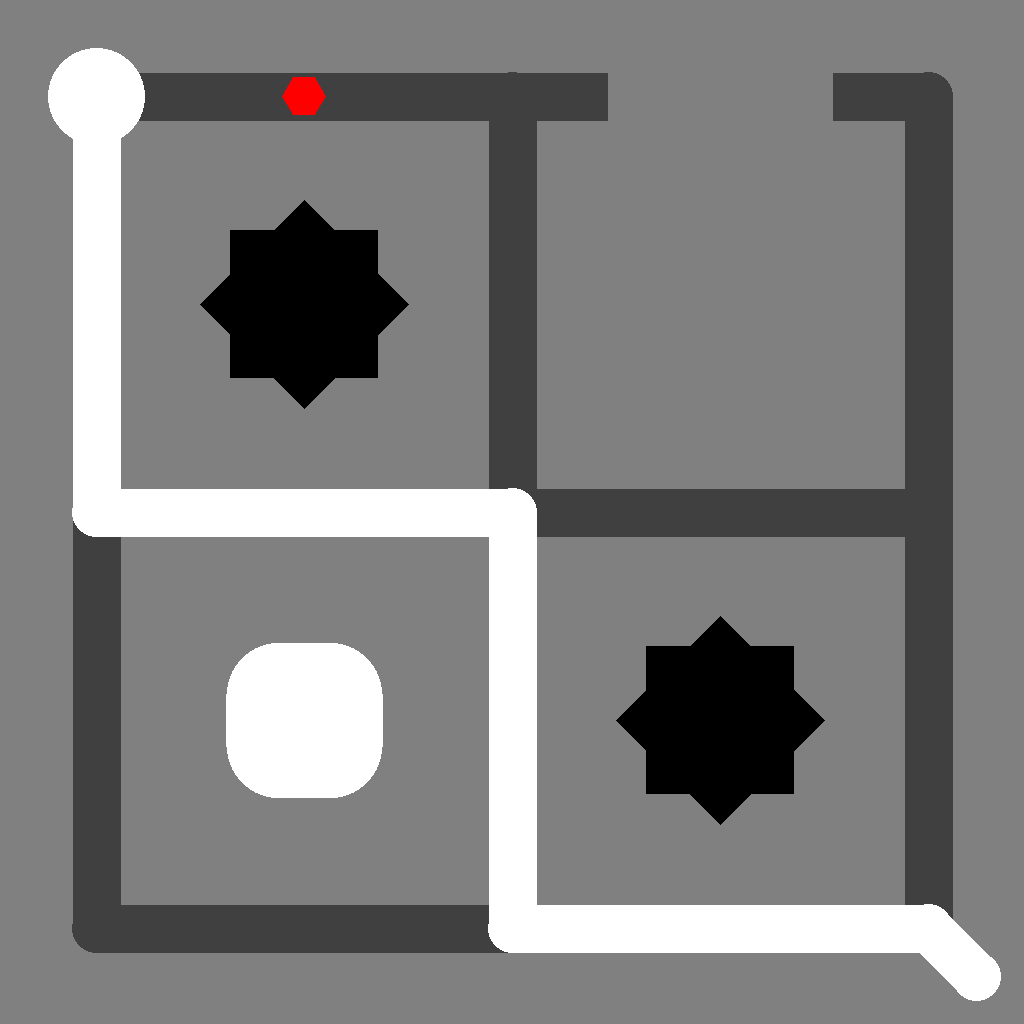
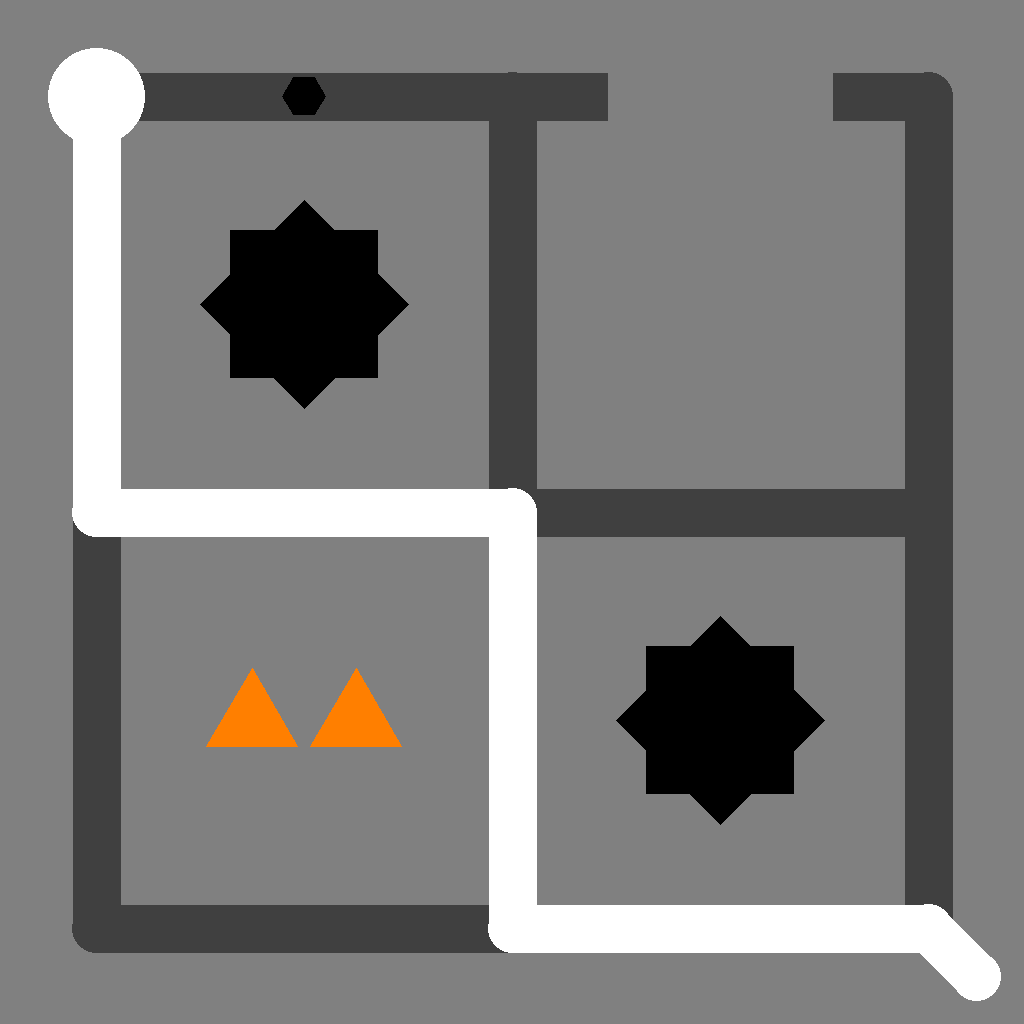
Add files via upload

Changed region(s): [[0.1875, 0.625, 0.4062, 0.7812], [0.2812, 0.0625, 0.3125, 0.125]]

diff --git a/PYTHON/render.py b/PYTHON/render.py
@@ -18,6 +18,13 @@ def generateHexagon(pos, diameter):
 	
 	return list
 
+def generateTriangle(pos, diameter):
+	list = []
+	for i in range(3):
+		list.append((pos[0] + diameter * 0.5 * math.cos(math.pi * (2 * i / 3 + 1.5)), pos[1] + diameter * 0.5 * math.sin(math.pi * (2 * i / 3 + 1.5))))
+	
+	return list
+
 def generateBlob(pos, diameter):
 	list = []
 	dx = [1, -1, -1, 1]
@@ -153,6 +160,21 @@ def render(output, puzzle, width = 1024, height = 1024, margin = 96, thickness =
 				# print(shape)
 				draw.polygon(shape[0], fill = colorize(puzzle, (i, j)))
 				draw.polygon(shape[1], fill = colorize(puzzle, (i, j)))
+			
+			# Draw triangles
+
+			if (isinstance(element, Triangle)):
+				for ii in range(element.x):
+					xpos2 = xpos + (ii + 0.5 - element.x / 2) * (grid_spacing / 2)
+					shape = generateTriangle((xpos2, ypos), grid_spacing / 2)
+					draw.polygon(shape, fill = colorize(puzzle, (i, j)))
+			
+			# Draw blocks
+
+			if (isinstance(element, BlockGroup)):
+				angle = 0 if element.oriented else -1 * math.pi / 6
+				# TODO
+
 
 			# Draw the path
 			if (element.isPathOccupied):

diff --git a/PYTHON/main.py b/PYTHON/main.py
@@ -8,7 +8,7 @@ from render import render
 
 thegroup = BlockGroup(False, False, {(0, 0), (1, 0), (0, 1)})
 
-board = [[Endpoint(True), Dot(), Object(), Object(), Object()], [Object(), Star(Color.BLACK), Object(), thegroup, Object()], [Object(), Object(), Object(), Object(), Object()], [Object(), Blob(Color.WHITE), Object(), Star(Color.BLACK), Object()], [Object(), Object(), Object(), Object(), Endpoint(False)]]
+board = [[Endpoint(True), Dot(), Object(), Object(), Object()], [Object(), Star(Color.BLACK), Object(), thegroup, Object()], [Object(), Object(), Object(), Object(), Object()], [Object(), Triangle(2), Object(), Star(Color.BLACK), Object()], [Object(), Object(), Object(), Object(), Endpoint(False)]]
 
 for i in range(5):
 	for j in range(5):
